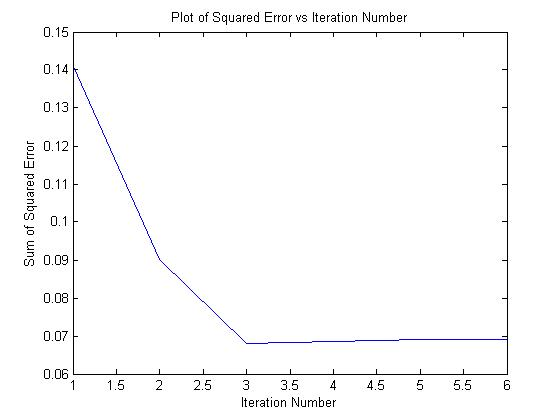
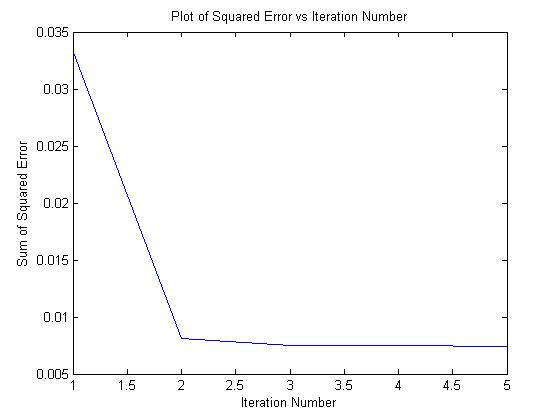
regenerated kmeans plots

diff --git a/Homework5/kMeansCluster.m b/Homework5/kMeansCluster.m
@@ -1,6 +1,9 @@
-function [ finalClusterRows, finalNumPointsCluster, finalClusters,finalClusterAssignments] = kMeansCluster( dataset, k, r, maxiterations )
+function [ finalClusterRows, finalNumPointsCluster, finalClusters,finalClusterAssignments] = kMeansCluster( dataset, k, r, maxiterations ,plotflag )
 %KMEANSCLUSTER Does k-means clustering of the dataset
 %   
+if(nargin < 5)
+   plotflag = 0; 
+end
 
 %does k-means
 datasetSize = size(dataset);
@@ -35,8 +38,7 @@ for instance = 1:r
         %loop through the data points finding the closest cluster for each point
         for dataPoint = 1:numPoints
            for cluster = 1:k
-               %TODO: Square the norm
-               currentClusterDistances(cluster) = norm(currentClusters(cluster,:)-dataset(dataPoint,:));
+               currentClusterDistances(cluster) = (norm(currentClusters(cluster,:)-dataset(dataPoint,:)))^2;
            end
 
            [currentMinDistance,bestCluster] = min(currentClusterDistances);
@@ -91,13 +93,15 @@ for instance = 1:r
     end 
     
 end
-%{
-TODO: Plot the cluster center
-figure
-plot(finalSumOfSquaresArray);
-xlabel('Iteration Number');
-ylabel('Sum of Squared Error');
-title('Plot of Squared Error vs Iteration Number');
-%}
+
+if(plotflag)
+    figure
+    plot(finalSumOfSquaresArray);
+    xlabel('Iteration Number');
+    ylabel('Sum of Squared Error');
+    title('Plot of Squared Error vs Iteration Number');
+end
+
+
 end
 

diff --git a/Homework5/plotClusters.m b/Homework5/plotClusters.m
@@ -4,27 +4,23 @@ function [] = plotClusters( clusterRows, numPointsCluster, K, muVector, sigmaVec
 %If muVector and sigmaVector are specified, then 
 %   the corresponding Gaussian is plotted
 
-if(nargin > 3)
+if(nargin > 4)
     gaussianFlag = 1;
 else 
     gaussianFlag = 0;
 end
 
+hold on
 if(K == 2)
-    %figure
-    hold on
     if(gaussianFlag)
         plot_gauss_parameters(muVector(1,:),sigmaVector(:,:,1),1,2,'r');
-        plot_gauss_parameters(muVector(2,:),sigmaVector(:,:,2),1,2,'g');
+        plot_gauss_parameters(muVector(2,:),sigmaVector(:,:,2),1,2,'g');    
     end
     plot(clusterRows(1:numPointsCluster(1),1,1),...
         clusterRows(1:numPointsCluster(1),2,1),'r.',...
         clusterRows(1:numPointsCluster(2),1,2),...
         clusterRows(1:numPointsCluster(2),2,2),'go');
-    hold off
 elseif(K == 3)
-    %figure
-    hold on
     if(gaussianFlag)
         plot_gauss_parameters(muVector(1,:),sigmaVector(:,:,1),1,2,'r');
         plot_gauss_parameters(muVector(2,:),sigmaVector(:,:,2),1,2,'g');
@@ -36,8 +32,13 @@ elseif(K == 3)
         clusterRows(1:numPointsCluster(2),2,2),'go',...
         clusterRows(1:numPointsCluster(3),1,3),...
         clusterRows(1:numPointsCluster(3),2,3),'bx');
-    hold off
 end
+
+if(gaussianFlag == 0)
+    plot(muVector(:,1),muVector(:,2),'k+','LineWidth',3); %plots the cluster centers
+end
+
+hold off
 
 end
 

diff --git a/Homework5/mainScript.m b/Homework5/mainScript.m
@@ -1,5 +1,6 @@
+clear all
 algorithm = 1;
-datasetNum = 1;
+datasetNum = 3;
 findBestInitMethodFlag = 0;
 
 maxiterations = 10;
@@ -19,7 +20,7 @@ elseif(datasetNum == 2)
     EM_init_method = 1;
 elseif(datasetNum == 3)
     dataset = dataset3;
-    K = 3;
+    K = 2;
     EM_init_method = 1;
 end
 
@@ -32,7 +33,7 @@ dataset = dataset(randperm(numPoints),:);
 if(algorithm == 1) %k-means cluster
     
     [finalClusterRows,finalNumPointsCluster,finalClusters,finalClusterAssignments] = ...
-    kMeansCluster(dataset,K,r,maxiterations);
+    kMeansCluster(dataset,K,r,maxiterations,1);
 
     if(datasetNum == 3)
         load('labelset3.txt');
@@ -42,7 +43,7 @@ if(algorithm == 1) %k-means cluster
 
     figure
 
-    plotClusters(finalClusterRows,finalNumPointsCluster,K);
+    plotClusters(finalClusterRows,finalNumPointsCluster,K,finalClusters);
     
 elseif(algorithm == 2) %EM algorithm
 
